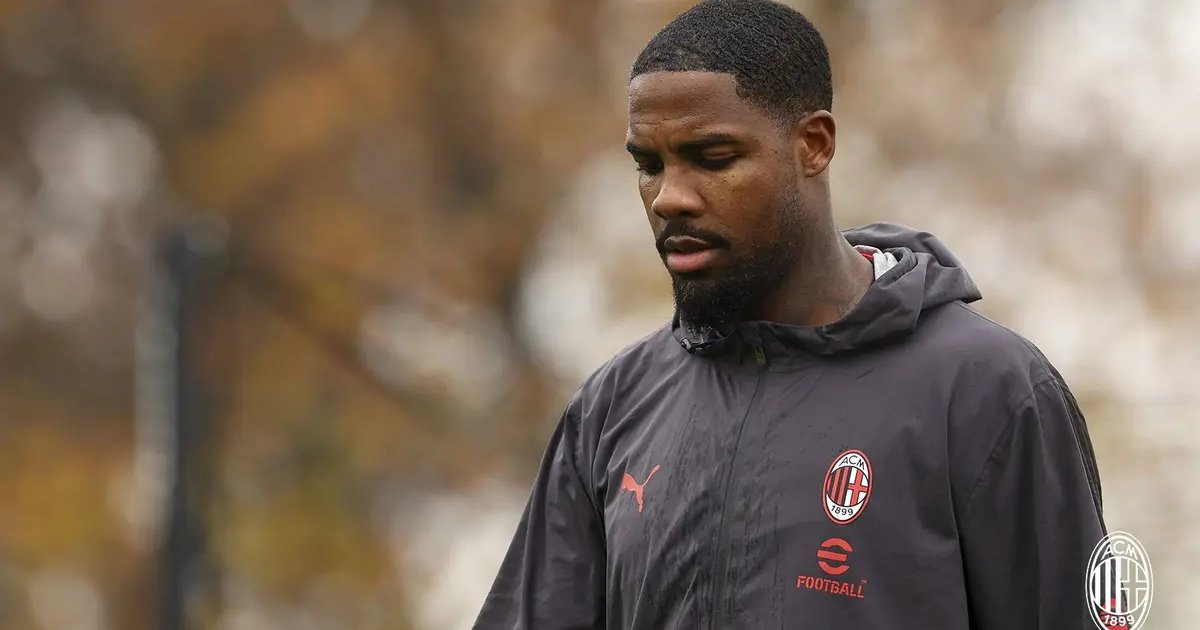
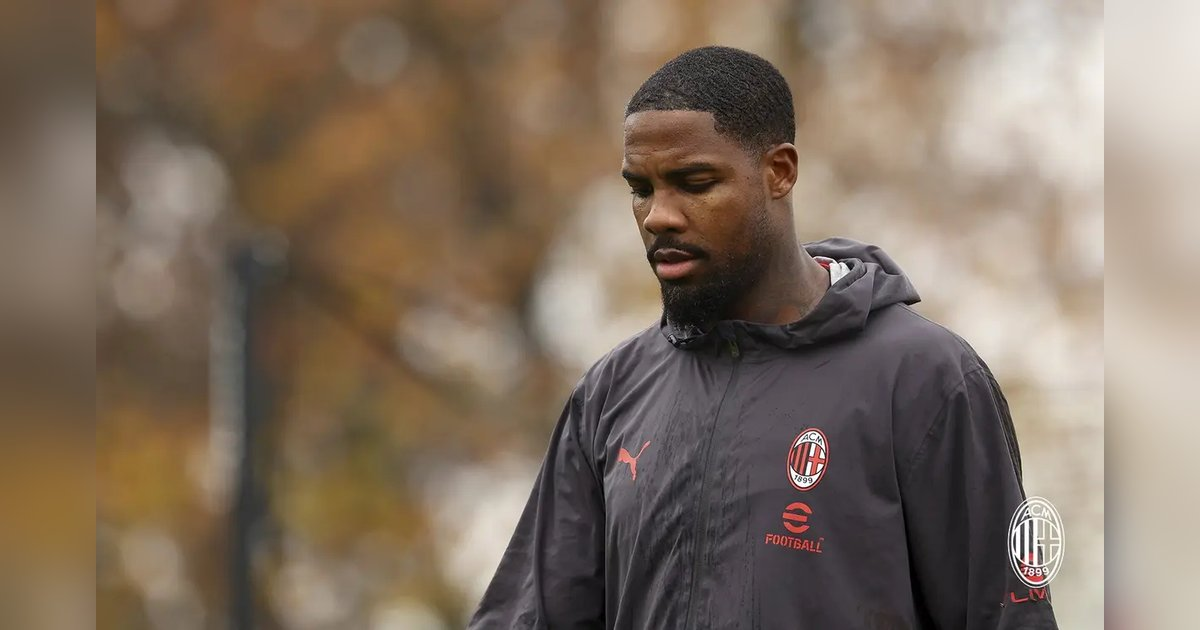
Ekte foto vises uten beskjæring

diff --git a/it/index.html b/it/index.html
@@ -7,7 +7,7 @@
 <link rel="preconnect" href="https://fonts.googleapis.com">
 <link rel="preconnect" href="https://fonts.gstatic.com" crossorigin>
 <link rel="stylesheet" href="https://fonts.googleapis.com/css2?family=Archivo:wdth,wght@62..125,100..900&family=IBM+Plex+Mono:wght@400;500&family=Great+Vibes&display=swap">
-<link rel="stylesheet" href="../style.css?v=202611200803">
+<link rel="stylesheet" href="../style.css?v=202611200808">
 <link rel="alternate" hreflang="en" href="../index.html">
 <link rel="alternate" hreflang="it" href="../it/index.html">
 <link rel="alternate" hreflang="nb" href="../no/index.html">
@@ -67,7 +67,7 @@
       </div>
       <div class="articles feed">
         <article id="s-goalkeeper-depth" class="item k-skraablikk" data-kind="skraablikk">
-          <figure class="art-fig" style="--fig-h:34rem"><img src="../img/s-goalkeeper-depth-da7ada.webp" alt="Un giocatore del Milan in giacca da allenamento guarda verso il basso durante la seduta, con i colori sfocati dell&#x27;autunno sullo sfondo" width="1600" height="1000" style="object-position:50% 20%"><span class="badge">Prospettiva</span></figure>
+          <figure class="art-fig real-photo" style="--fig-h:34rem"><img src="../img/s-goalkeeper-depth-da7ada.webp" alt="Un giocatore del Milan in giacca da allenamento guarda verso il basso durante la seduta, con i colori sfocati dell&#x27;autunno sullo sfondo" width="1600" height="1000" style="object-position:50% 20%"><span class="badge">Prospettiva</span></figure>
           <div class="txt">
             <button type="button" class="readless-top" data-for="s-goalkeeper-depth">Mostra meno</button>
             <div class="meta"><p class="kicker"><span class="cat">Prospettiva · I portieri</span></p><p class="pub">Pubblicato <time datetime="2026-11-19">giovedì 19 novembre 2026</time></p></div>

diff --git a/index.html b/index.html
@@ -7,7 +7,7 @@
 <link rel="preconnect" href="https://fonts.googleapis.com">
 <link rel="preconnect" href="https://fonts.gstatic.com" crossorigin>
 <link rel="stylesheet" href="https://fonts.googleapis.com/css2?family=Archivo:wdth,wght@62..125,100..900&family=IBM+Plex+Mono:wght@400;500&family=Great+Vibes&display=swap">
-<link rel="stylesheet" href="style.css?v=202611200803">
+<link rel="stylesheet" href="style.css?v=202611200808">
 <link rel="alternate" hreflang="en" href="index.html">
 <link rel="alternate" hreflang="it" href="it/index.html">
 <link rel="alternate" hreflang="nb" href="no/index.html">
@@ -67,7 +67,7 @@
       </div>
       <div class="articles feed">
         <article id="s-goalkeeper-depth" class="item k-skraablikk" data-kind="skraablikk">
-          <figure class="art-fig" style="--fig-h:34rem"><img src="img/s-goalkeeper-depth-da7ada.webp" alt="A Milan player in a training jacket looks down during a session, with blurred autumn colours behind him" width="1600" height="1000" style="object-position:50% 20%"><span class="badge">Perspective</span></figure>
+          <figure class="art-fig real-photo" style="--fig-h:34rem"><img src="img/s-goalkeeper-depth-da7ada.webp" alt="A Milan player in a training jacket looks down during a session, with blurred autumn colours behind him" width="1600" height="1000" style="object-position:50% 20%"><span class="badge">Perspective</span></figure>
           <div class="txt">
             <button type="button" class="readless-top" data-for="s-goalkeeper-depth">Show less</button>
             <div class="meta"><p class="kicker"><span class="cat">Perspective · The goalkeepers</span></p><p class="pub">Published <time datetime="2026-11-19">Thursday 19 November 2026</time></p></div>

diff --git a/no/index.html b/no/index.html
@@ -7,7 +7,7 @@
 <link rel="preconnect" href="https://fonts.googleapis.com">
 <link rel="preconnect" href="https://fonts.gstatic.com" crossorigin>
 <link rel="stylesheet" href="https://fonts.googleapis.com/css2?family=Archivo:wdth,wght@62..125,100..900&family=IBM+Plex+Mono:wght@400;500&family=Great+Vibes&display=swap">
-<link rel="stylesheet" href="../style.css?v=202611200803">
+<link rel="stylesheet" href="../style.css?v=202611200808">
 <link rel="alternate" hreflang="en" href="../index.html">
 <link rel="alternate" hreflang="it" href="../it/index.html">
 <link rel="alternate" hreflang="nb" href="../no/index.html">
@@ -67,7 +67,7 @@
       </div>
       <div class="articles feed">
         <article id="s-goalkeeper-depth" class="item k-skraablikk" data-kind="skraablikk">
-          <figure class="art-fig" style="--fig-h:34rem"><img src="../img/s-goalkeeper-depth-da7ada.webp" alt="Milan-spiller i treningsjakke ser ned under trening, med uskarpe høstfarger i bakgrunnen" width="1600" height="1000" style="object-position:50% 20%"><span class="badge">Perspektiv</span></figure>
+          <figure class="art-fig real-photo" style="--fig-h:34rem"><img src="../img/s-goalkeeper-depth-da7ada.webp" alt="Milan-spiller i treningsjakke ser ned under trening, med uskarpe høstfarger i bakgrunnen" width="1600" height="1000" style="object-position:50% 20%"><span class="badge">Perspektiv</span></figure>
           <div class="txt">
             <button type="button" class="readless-top" data-for="s-goalkeeper-depth">Vis mindre</button>
             <div class="meta"><p class="kicker"><span class="cat">Perspektiv · Keeperne</span></p><p class="pub">Publisert <time datetime="2026-11-19">torsdag 19. november 2026</time></p></div>

diff --git a/it/statistikk-forstelaget.html b/it/statistikk-forstelaget.html
@@ -7,7 +7,7 @@
 <link rel="preconnect" href="https://fonts.googleapis.com">
 <link rel="preconnect" href="https://fonts.gstatic.com" crossorigin>
 <link rel="stylesheet" href="https://fonts.googleapis.com/css2?family=Archivo:wdth,wght@62..125,100..900&family=IBM+Plex+Mono:wght@400;500&family=Great+Vibes&display=swap">
-<link rel="stylesheet" href="../style.css?v=202611200803">
+<link rel="stylesheet" href="../style.css?v=202611200808">
 <link rel="alternate" hreflang="en" href="../statistikk-forstelaget.html">
 <link rel="alternate" hreflang="it" href="../it/statistikk-forstelaget.html">
 <link rel="alternate" hreflang="nb" href="../no/statistikk-forstelaget.html">

diff --git a/no/statistikk-forstelaget.html b/no/statistikk-forstelaget.html
@@ -7,7 +7,7 @@
 <link rel="preconnect" href="https://fonts.googleapis.com">
 <link rel="preconnect" href="https://fonts.gstatic.com" crossorigin>
 <link rel="stylesheet" href="https://fonts.googleapis.com/css2?family=Archivo:wdth,wght@62..125,100..900&family=IBM+Plex+Mono:wght@400;500&family=Great+Vibes&display=swap">
-<link rel="stylesheet" href="../style.css?v=202611200803">
+<link rel="stylesheet" href="../style.css?v=202611200808">
 <link rel="alternate" hreflang="en" href="../statistikk-forstelaget.html">
 <link rel="alternate" hreflang="it" href="../it/statistikk-forstelaget.html">
 <link rel="alternate" hreflang="nb" href="../no/statistikk-forstelaget.html">

diff --git a/it/statistikk-primavera.html b/it/statistikk-primavera.html
@@ -7,7 +7,7 @@
 <link rel="preconnect" href="https://fonts.googleapis.com">
 <link rel="preconnect" href="https://fonts.gstatic.com" crossorigin>
 <link rel="stylesheet" href="https://fonts.googleapis.com/css2?family=Archivo:wdth,wght@62..125,100..900&family=IBM+Plex+Mono:wght@400;500&family=Great+Vibes&display=swap">
-<link rel="stylesheet" href="../style.css?v=202611200803">
+<link rel="stylesheet" href="../style.css?v=202611200808">
 <link rel="alternate" hreflang="en" href="../statistikk-primavera.html">
 <link rel="alternate" hreflang="it" href="../it/statistikk-primavera.html">
 <link rel="alternate" hreflang="nb" href="../no/statistikk-primavera.html">

diff --git a/no/statistikk-primavera.html b/no/statistikk-primavera.html
@@ -7,7 +7,7 @@
 <link rel="preconnect" href="https://fonts.googleapis.com">
 <link rel="preconnect" href="https://fonts.gstatic.com" crossorigin>
 <link rel="stylesheet" href="https://fonts.googleapis.com/css2?family=Archivo:wdth,wght@62..125,100..900&family=IBM+Plex+Mono:wght@400;500&family=Great+Vibes&display=swap">
-<link rel="stylesheet" href="../style.css?v=202611200803">
+<link rel="stylesheet" href="../style.css?v=202611200808">
 <link rel="alternate" hreflang="en" href="../statistikk-primavera.html">
 <link rel="alternate" hreflang="it" href="../it/statistikk-primavera.html">
 <link rel="alternate" hreflang="nb" href="../no/statistikk-primavera.html">

diff --git a/it/statistikk-futuro.html b/it/statistikk-futuro.html
@@ -7,7 +7,7 @@
 <link rel="preconnect" href="https://fonts.googleapis.com">
 <link rel="preconnect" href="https://fonts.gstatic.com" crossorigin>
 <link rel="stylesheet" href="https://fonts.googleapis.com/css2?family=Archivo:wdth,wght@62..125,100..900&family=IBM+Plex+Mono:wght@400;500&family=Great+Vibes&display=swap">
-<link rel="stylesheet" href="../style.css?v=202611200803">
+<link rel="stylesheet" href="../style.css?v=202611200808">
 <link rel="alternate" hreflang="en" href="../statistikk-futuro.html">
 <link rel="alternate" hreflang="it" href="../it/statistikk-futuro.html">
 <link rel="alternate" hreflang="nb" href="../no/statistikk-futuro.html">

diff --git a/no/statistikk-futuro.html b/no/statistikk-futuro.html
@@ -7,7 +7,7 @@
 <link rel="preconnect" href="https://fonts.googleapis.com">
 <link rel="preconnect" href="https://fonts.gstatic.com" crossorigin>
 <link rel="stylesheet" href="https://fonts.googleapis.com/css2?family=Archivo:wdth,wght@62..125,100..900&family=IBM+Plex+Mono:wght@400;500&family=Great+Vibes&display=swap">
-<link rel="stylesheet" href="../style.css?v=202611200803">
+<link rel="stylesheet" href="../style.css?v=202611200808">
 <link rel="alternate" hreflang="en" href="../statistikk-futuro.html">
 <link rel="alternate" hreflang="it" href="../it/statistikk-futuro.html">
 <link rel="alternate" hreflang="nb" href="../no/statistikk-futuro.html">

diff --git a/statistikk-forstelaget.html b/statistikk-forstelaget.html
@@ -7,7 +7,7 @@
 <link rel="preconnect" href="https://fonts.googleapis.com">
 <link rel="preconnect" href="https://fonts.gstatic.com" crossorigin>
 <link rel="stylesheet" href="https://fonts.googleapis.com/css2?family=Archivo:wdth,wght@62..125,100..900&family=IBM+Plex+Mono:wght@400;500&family=Great+Vibes&display=swap">
-<link rel="stylesheet" href="style.css?v=202611200803">
+<link rel="stylesheet" href="style.css?v=202611200808">
 <link rel="alternate" hreflang="en" href="statistikk-forstelaget.html">
 <link rel="alternate" hreflang="it" href="it/statistikk-forstelaget.html">
 <link rel="alternate" hreflang="nb" href="no/statistikk-forstelaget.html">

diff --git a/it/transfer-outcome.html b/it/transfer-outcome.html
@@ -7,7 +7,7 @@
 <link rel="preconnect" href="https://fonts.googleapis.com">
 <link rel="preconnect" href="https://fonts.gstatic.com" crossorigin>
 <link rel="stylesheet" href="https://fonts.googleapis.com/css2?family=Archivo:wdth,wght@62..125,100..900&family=IBM+Plex+Mono:wght@400;500&family=Great+Vibes&display=swap">
-<link rel="stylesheet" href="../style.css?v=202611200803">
+<link rel="stylesheet" href="../style.css?v=202611200808">
 <link rel="alternate" hreflang="en" href="../transfer-outcome.html">
 <link rel="alternate" hreflang="it" href="../it/transfer-outcome.html">
 <link rel="alternate" hreflang="nb" href="../no/transfer-outcome.html">

diff --git a/no/transfer-outcome.html b/no/transfer-outcome.html
@@ -7,7 +7,7 @@
 <link rel="preconnect" href="https://fonts.googleapis.com">
 <link rel="preconnect" href="https://fonts.gstatic.com" crossorigin>
 <link rel="stylesheet" href="https://fonts.googleapis.com/css2?family=Archivo:wdth,wght@62..125,100..900&family=IBM+Plex+Mono:wght@400;500&family=Great+Vibes&display=swap">
-<link rel="stylesheet" href="../style.css?v=202611200803">
+<link rel="stylesheet" href="../style.css?v=202611200808">
 <link rel="alternate" hreflang="en" href="../transfer-outcome.html">
 <link rel="alternate" hreflang="it" href="../it/transfer-outcome.html">
 <link rel="alternate" hreflang="nb" href="../no/transfer-outcome.html">
